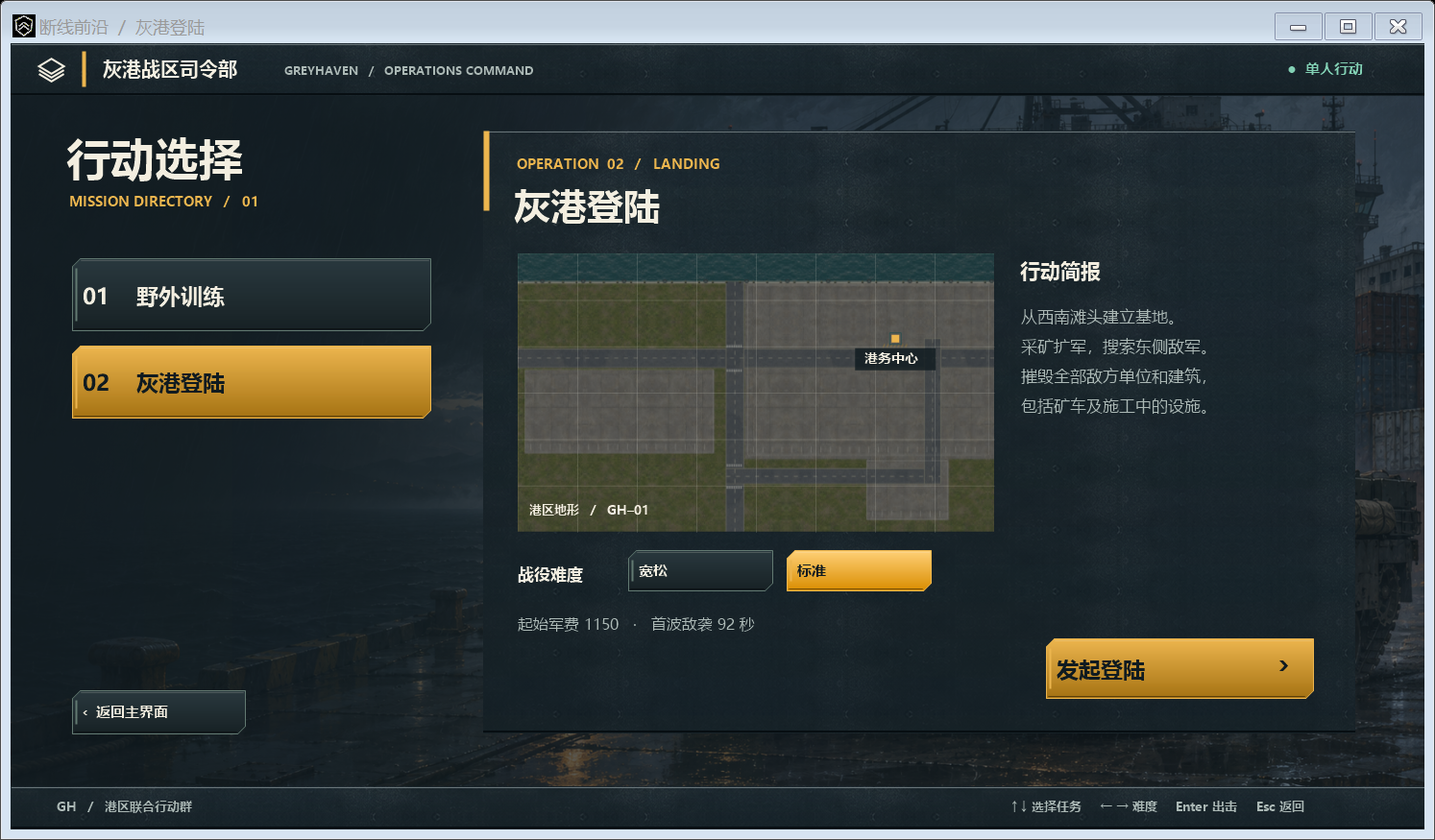
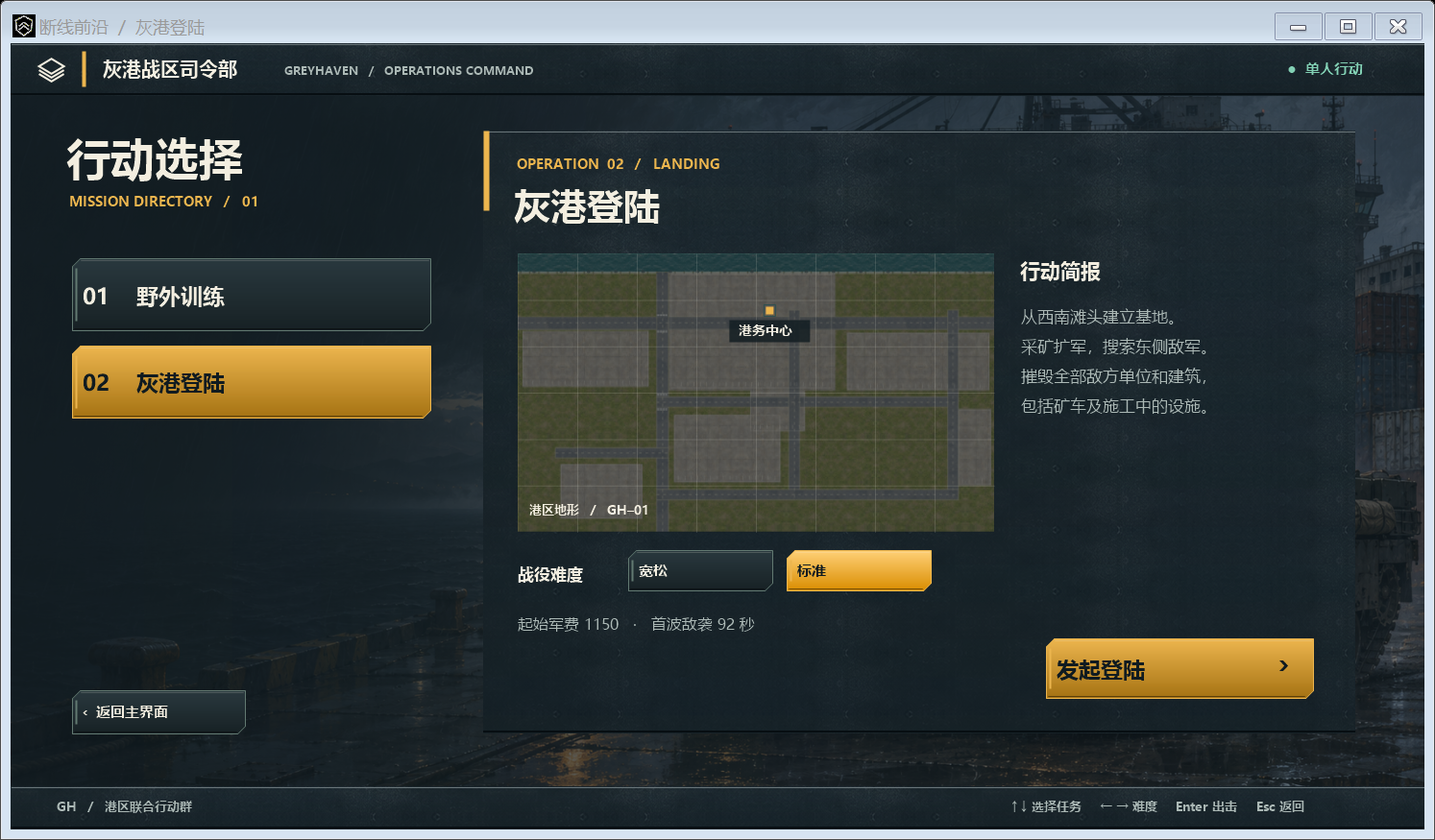
扩大灰港地图并校准战场比例、行速与卸矿通道

Changed region(s): [[0.3387, 0.3086, 0.7082, 0.648]]

diff --git a/src/IsometricField.cs b/src/IsometricField.cs
@@ -8,7 +8,8 @@ using System.Collections.Generic;
 
 namespace Greyhaven {
 partial class CommandWindow {
- float zoom=1.7f;PointF camera=new PointF(255,465),panPoint;bool panning,sweep,syncMarch=true;
+ internal const float DefaultZoom=1.05f;
+ float zoom=DefaultZoom;PointF camera=new PointF(255,465),panPoint;bool panning,sweep,syncMarch=true;
  const float Axis=.87f, Rise=.435f;
  PointF ScreenOf(PointF w){return new PointF(MW*.5f+zoom*Axis*(w.X-camera.X-w.Y+camera.Y),MapTop+MH*.5f+zoom*Rise*(w.X-camera.X+w.Y-camera.Y));}
  PointF WorldOf(PointF s){float a=(s.X-MW*.5f)/(Axis*zoom),b=(s.Y-MapTop-MH*.5f)/(Rise*zoom);return new PointF(camera.X+(b+a)/2,camera.Y+(b-a)/2);}
@@ -159,7 +160,7 @@ partial class CommandWindow {
    using(var pen=new Pen(teal,1.5f)){pen.DashStyle=DashStyle.Dot;g.DrawLine(pen,a,b);g.DrawEllipse(pen,b.X-8,b.Y-5,16,10);}}
   if(place!=null&&mouse.X<MW&&mouse.Y>=MapTop&&mouse.Y<MapTop+MH){
    var w=WorldOf(mouse);var r=Campaign.Footprint(place,w);var p=ScreenOf(Campaign.Middle(r));DrawLive(g,place,0,14,p,place.Size*zoom,1);
-   var state=g.Save();GroundSpace(g);DrawTiles(g,r,world.CanPlace(place,w,null)?teal:red,true);if(Campaign.HasGate(place))DrawTiles(g,Campaign.Gate(r),gold,false);if(place.Key=="barracks")DrawTiles(g,Campaign.Muster(r),teal,true);g.Restore(state);
+   var state=g.Save();GroundSpace(g);DrawTiles(g,r,world.CanPlace(place,w,null)?teal:red,true);if(Campaign.HasGate(place))DrawTiles(g,place.Key=="refinery"?Campaign.UnloadingLane(r):Campaign.Gate(r),gold,place.Key=="refinery");if(place.Key=="barracks")DrawTiles(g,Campaign.Muster(r),teal,true);g.Restore(state);
   }
   if(showGrid){
    foreach(var o in world.Units.Where(u=>u.Alive&&u.T.Building&&world.Visible(u)))CornerPins(g,Campaign.Footprint(o.T,o.P),Team(o.Side));
@@ -213,11 +214,13 @@ partial class CommandWindow {
     try{for(int i=0;i<4;i++){using(var t=materials.Clone(new Rectangle(i%2*w+2,i/2*h+2,w-4,h-4),PixelFormat.Format32bppPArgb)){
      tiles[i]=new TextureBrush(t,WrapMode.TileFlipXY);tiles[i].ScaleTransform(.38f,.38f);}}
      g.FillRectangle(tiles[0],0,0,bmp.Width,bmp.Height);g.FillRectangle(tiles[2],0,0,bmp.Width,101);
-     foreach(var pad in new[]{new Rectangle(25,402,668,288),new Rectangle(800,100,880,610),new Rectangle(1230,710,290,210)})g.FillRectangle(tiles[1],pad);
+     foreach(var pad in new[]{new Rectangle(25,402,668,288),new Rectangle(800,100,880,610),new Rectangle(1230,710,290,210),
+      new Rectangle(1740,410,755,300),new Rectangle(2328,804,176,398),new Rectangle(825,835,565,350),new Rectangle(225,1090,435,282)})g.FillRectangle(tiles[1],pad);
      using(var edge=new Pen(C("#bbb4a0"),8)){g.DrawLine(edge,0,100,bmp.Width,100);}
      foreach(var r in Campaign.Roads){using(var p=new Pen(C("#a09981"),5))g.DrawRectangle(p,r.X,r.Y,r.Width,r.Height);g.FillRectangle(tiles[3],r);}
      foreach(var r in Campaign.Roads){bool horiz=r.Width>r.Height;using(var pen=new Pen(C("#ccc3a6"),2)){pen.DashPattern=new[]{7f,10f};if(horiz)g.DrawLine(pen,r.Left,r.Top+r.Height/2,r.Right,r.Top+r.Height/2);else g.DrawLine(pen,r.Left+r.Width/2,r.Top,r.Left+r.Width/2,r.Bottom);}}
-     foreach(var pad in new[]{new Rectangle(26,402,664,284),new Rectangle(810,110,850,585),new Rectangle(1230,715,285,201)}){
+     foreach(var pad in new[]{new Rectangle(26,402,664,284),new Rectangle(810,110,850,585),new Rectangle(1230,715,285,201),
+      new Rectangle(1745,415,745,290),new Rectangle(2333,809,166,388),new Rectangle(830,840,555,340),new Rectangle(230,1095,425,272)}){
       using(var pen=new Pen(Color.FromArgb(100,pale),2))g.DrawRectangle(pen,pad);
       for(int i=pad.Left+20;i<pad.Right-14;i+=34)Line(g,i,pad.Bottom-29,i,pad.Bottom-8,Color.FromArgb(128,pale),2);
      }

diff --git a/tests/CampaignChecks.cs b/tests/CampaignChecks.cs
@@ -22,13 +22,19 @@ class CampaignChecks {
     int i=0;foreach(var o in w.Live(0).Where(o=>!o.T.Building&&o.T.Key!="miner").ToArray()){
      var enemy=w.Units.Where(e=>e.Side==1&&e.Alive&&e.Carrier==null&&w.Visible(e)).OrderBy(e=>Campaign.Dist(o.P,e.P)).FirstOrDefault();
      if(o.T.Hit>0&&enemy!=null){if(o.Target==null)w.Attack(o,enemy);}
-     else if(o.Path.Count==0)w.Move(o,new PointF(1515+i%4*15,600+i/4%4*16),true);
+     else if(o.Path.Count==0){
+      // Sweep the expanded base approach, then its southern ore route for survivors.
+      var p=w.Time<260?new PointF(Campaign.EnemyHome.X-170+i%4*15,Campaign.EnemyHome.Y+100+i/4%4*16)
+       :new PointF(Campaign.EnemyHome.X-90+i%4*20,Campaign.EnemyHome.Y+350+i/4%4*16);
+      w.Move(o,p,true);
+     }
      i++;
     }
    }
    Wait(w,2);
   }
   Console.WriteLine((armor?"Armour":"Infantry/artillery")+" win="+w.Won+" at "+(int)w.Time+"s, recruited="+order+" remaining="+w.Remaining(1));
+  if(!w.Won)Console.WriteLine(String.Join("\n",w.Live(0).Where(u=>!u.T.Building&&u.T.Key!="miner").Take(18).Select(u=>u.T.Key+" "+u.P+" path="+u.Path.Count+" target="+(u.Target==null?"-":u.Target.T.Key+"@"+u.Target.P)))+"\nEnemy "+String.Join(" ",w.Live(1).GroupBy(u=>u.T.Key).Select(g=>g.Key+"="+g.Count())));
   Check(w.Won,"mission needs to be winnable");
  }
  static void Training(){
@@ -240,7 +246,19 @@ class CampaignChecks {
   Check(!w.Move(tank,new PointF(plant.P.X,lot.Top-6.5f),false),"tank must still respect its wider hull");
   Wait(w,12);Check(Campaign.Dist(miner.P,goal)<.1f,"miner completed tight passage");
  }
- static int Main(){try{Run();return 0;}catch(Exception ex){Console.Error.WriteLine(ex.Message);return 1;}}
+ static void ExpandedMap(){
+  foreach(var key in new[]{"squad","tank","miner","ifv"}){
+   var w=new Campaign(true);var unit=w.Spawn(key,0,1640,920);w.Halt(unit);
+   var goal=new PointF(2420,1320);
+   Check(w.Move(unit,goal,false),"expanded region route "+key);Wait(w,42);
+   Check(Campaign.Dist(unit.P,goal)<.02f&&unit.Path.Count==0,"expanded route arrival "+key);
+   Check(w.Explored(0,goal),"fog extends to new region");
+   Check(!w.Move(unit,new PointF(Campaign.Width+10,1320),false),"east map boundary");
+   Check(!w.Move(unit,new PointF(2420,Campaign.Height+10),false),"south map boundary");
+  }
+  Console.WriteLine("Infantry and three vehicle classes crossed the old map bounds, arrived without overshoot and revealed the new terrain.");
+ }
+ static int Main(){try{ExpandedMap();Run();return 0;}catch(Exception ex){Console.Error.WriteLine(ex.Message);return 1;}}
  static void Run(){NarrowGate();CrowdedOreRun(.05f);CrowdedOreRun(1f/60);MinerMidRouteBlock();EnemySupplyChain();MinerTraffic();ExhaustedFields();ProspectChecks();OreChecks();ContactChecks();StreetChecks();InfantryWaves();HeadingChecks();ReconAndMarch();Navigation();Training();Play(true);Play(false);EliminationChecks();
   var w=new Campaign();var car=w.Spawn("ifv",0,212,431);w.Load(car);Check(w.Units.Any(o=>o.Carrier==car),"embark");w.Load(car);Check(!w.Units.Any(o=>o.Carrier==car),"disembark");
   Console.WriteLine("All checks passed.");}

diff --git a/tests/WindowChecks.cs b/tests/WindowChecks.cs
@@ -31,9 +31,9 @@ class WindowChecks {
    Press(f,140,694);if((bool)Field(f,"missionPicker"))throw new Exception("back to title");
    Press(f,220,571);Press(f,180,255);Press(f,1194,651);if((bool)Field(f,"briefing"))throw new Exception("tutorial launch");
    var screen=new PointF(647,405);var inv=typeof(CommandWindow).GetMethod("WorldOf",flags);
-   var before=(PointF)inv.Invoke(f,new object[]{screen});float ui=(float)Field(f,"scale");
+   var before=(PointF)inv.Invoke(f,new object[]{screen});float ui=(float)Field(f,"scale"),oldZoom=(float)Field(f,"zoom");
    typeof(CommandWindow).GetMethod("OnMouseWheel",flags).Invoke(f,new object[]{new MouseEventArgs(MouseButtons.None,0,(int)(screen.X*ui+(float)Field(f,"ox")),(int)(screen.Y*ui+(float)Field(f,"oy")),120)});
-   var after=(PointF)inv.Invoke(f,new object[]{screen});if(Campaign.Dist(before,after)>2||(float)Field(f,"zoom")<=1.7f)throw new Exception("cursor anchored zoom");Frame(f,null);
+   var after=(PointF)inv.Invoke(f,new object[]{screen});if(Campaign.Dist(before,after)>2||(float)Field(f,"zoom")<=oldZoom)throw new Exception("cursor anchored zoom");Frame(f,null);
    Press(f,1276,298);Press(f,1170,346);if(((Campaign)Field(f,"world")).LastOrder!=null)throw new Exception("locked card accepted");
    Press(f,1150,298);
    var w=(Campaign)Field(f,"world");Press(f,399,738);if(!w.Landing)throw new Exception("deploy button");
@@ -70,7 +70,7 @@ class WindowChecks {
      var picked=(System.Collections.Generic.List<Piece>)Field(f,"selection");picked.Clear();picked.Add(armor);
     }
     var factory=w.Live(0).First(u=>u.T.Key=="factory");w.Train(Campaign.Info("tank"),0,factory);w.Train(Campaign.Info("ifv"),0,factory);for(int t=0;t<28;t++)w.Tick(.1f);
-    Frame(f,Path.Combine(Path.GetDirectoryName(args[0]),"等距战场.png"));while(factory.Queue.Count>0)w.CancelOrder(factory,0);
+    Frame(f,Path.Combine(Path.GetDirectoryName(args[0]),"等距战场.png"));f.CaptureDefaultScale(Path.Combine(Path.GetDirectoryName(args[0]),"战场比例.png"));while(factory.Queue.Count>0)w.CancelOrder(factory,0);
    }
    if(w.LessonKey!="eliminate")throw new Exception("ifv training");Press(f,767,90);
    typeof(CommandWindow).GetMethod("OnKeyDown",flags).Invoke(f,new object[]{new KeyEventArgs(Keys.A)});MapClick(f,1330,292);
@@ -100,6 +100,12 @@ class WindowChecks {
 
 namespace Greyhaven {
 partial class CommandWindow {
+ internal void CaptureDefaultScale(string path){
+  var oldSize=ClientSize;float oldZoom=zoom;ClientSize=new Size(1920,1080);zoom=DefaultZoom;
+  try{using(var frame=new Bitmap(1920,1080))using(var g=Graphics.FromImage(frame)){
+   OnPaint(new PaintEventArgs(g,ClientRectangle));frame.Save(path,System.Drawing.Imaging.ImageFormat.Png);
+  }}finally{ClientSize=oldSize;zoom=oldZoom;}
+ }
  internal void CheckInfantry(){
   var feet=new PointF(96,120);const float size=100;var box=SoldierBox(feet,size);
   foreach(var key in new[]{"squad","at","engineer"})foreach(var side in new[]{0,1}){

diff --git a/src/Campaign.cs b/src/Campaign.cs
@@ -39,15 +39,15 @@ public partial class Campaign {
   new TypeInfo("factory","车辆工厂","hq",380,980,0,0,155,0,10,0),
   new TypeInfo("radar","雷达站","hq",240,510,0,0,113,0,8,0),
   new TypeInfo("post","防御阵地","hq",235,610,17,118,102,0,7,1.2f),
-  new TypeInfo("squad","步枪兵","barracks",85,110,10,73,58,32,5,1.25f),
-  new TypeInfo("at","反装甲兵","barracks",135,85,30,115,61,29,8,2.5f),
-  new TypeInfo("engineer","工兵","barracks",95,90,0,0,58,34,6,1),
-  new TypeInfo("ifv","步兵战车","factory",185,210,16,96,66,45,8,1.3f),
-  new TypeInfo("tank","主战坦克","factory",290,355,38,115,75,36,12,2),
-  new TypeInfo("arty","自行火炮","factory",315,150,54,222,70,31,13,3.5f),
-  new TypeInfo("mcv","工程车","hq",340,290,0,0,73,31,13,0),
+  new TypeInfo("squad","步枪兵","barracks",85,110,10,73,48,48,5,1.25f),
+  new TypeInfo("at","反装甲兵","barracks",135,85,30,115,50,43.2f,8,2.5f),
+  new TypeInfo("engineer","工兵","barracks",95,90,0,0,48,48,6,1),
+  new TypeInfo("ifv","步兵战车","factory",185,210,16,96,50,96,8,1.3f),
+  new TypeInfo("tank","主战坦克","factory",290,355,38,115,57,72,12,2),
+  new TypeInfo("arty","自行火炮","factory",315,150,54,222,53,57.6f,13,3.5f),
+  new TypeInfo("mcv","工程车","hq",340,290,0,0,55,60,13,0),
   new TypeInfo("refinery","矿石精炼厂","hq",390,720,0,0,136,0,9,0),
-  new TypeInfo("miner","采矿车","factory",195,310,0,0,44,38,9,0)};
+  new TypeInfo("miner","采矿车","factory",195,310,0,0,44,72,9,0)};
  public static TypeInfo Info(string k){return Array.Find(Types,t=>t.Key==k);}
  public readonly List<Piece> Units=new List<Piece>();public readonly List<Shot> Shots=new List<Shot>();
  public readonly Site[] Sites={new Site("港务中心",1330,292,1265,227)};
@@ -61,7 +61,7 @@ public partial class Campaign {
   Spawn("mcv",0,152,514);Spawn("squad",0,214,418);Spawn("squad",0,258,410);
 
   if(tutorial){Spawn("squad",1,1390,287);Reveal();return;}
-  Spawn("mcv",1,1548,500);Reveal();
+  Spawn("mcv",1,EnemyHome.X,EnemyHome.Y);Reveal();
  }
  public static float Dist(PointF a,PointF b){return (float)Math.Sqrt((a.X-b.X)*(a.X-b.X)+(a.Y-b.Y)*(a.Y-b.Y));}
  public Piece Spawn(string k,int side,float x,float y){

diff --git a/src/OreEconomy.cs b/src/OreEconomy.cs
@@ -5,8 +5,10 @@ using System.Collections.Generic;
 
 namespace Greyhaven {
 public class OrePatch {
- public PointF P;public float Stock;public readonly float Initial;
+ public PointF P;double stock;public readonly float Initial;
+ public float Stock {get{return (float)stock;}set{stock=value;}}
  public OrePatch(float x,float y,float stock){P=new PointF(x,y);Stock=Initial=stock;}
+ public float Extract(float request){float take=(float)Math.Min(stock,request);stock-=take;return take;}
 }
 public partial class Campaign {
  public const int LoadValue=180;
@@ -21,7 +23,9 @@ public partial class Campaign {
  }
  static List<OrePatch> CreateFields(){
   var ore=new List<OrePatch>();
-  foreach(var center in new[]{new PointF(53,626),new PointF(1590,867),new PointF(449,221),new PointF(896,629),new PointF(1020,140)}){
+  foreach(var center in new[]{new PointF(53,626),new PointF(EnemyHome.X+42,EnemyHome.Y+367),
+   new PointF(449,221),new PointF(896,629),new PointF(1020,140),
+   new PointF(550,1170),new PointF(1280,1310),new PointF(2060,470)}){
    foreach(var offset in new[]{new PointF(0,0),new PointF(29,14),new PointF(-24,19),new PointF(6,38)})
     ore.Add(new OrePatch(center.X+offset.X,center.Y+offset.Y,4200));
   }return ore;
@@ -108,8 +112,8 @@ public partial class Campaign {
   }
   var patch=truck.Patch;
   if(patch!=null&&patch.Stock>.01f&&Dist(truck.P,truck.WorkPoint)<5&&Dist(truck.WorkPoint,patch.P)<=30){
-   truck.Path.Clear();float take=Math.Min(Math.Min(patch.Stock,LoadValue-truck.Cargo),dt*36);
-   truck.Cargo+=take;patch.Stock-=take;if(truck.Side==0&&take>0)FirstOreCollected=true;
+   truck.Path.Clear();float take=patch.Extract(Math.Min(LoadValue-truck.Cargo,dt*36));
+   truck.Cargo+=take;if(truck.Side==0&&take>0)FirstOreCollected=true;
    if(patch.Stock<=.01f){truck.Patch=null;truck.Returning=truck.Cargo>.01f;}
    return;
   }

diff --git a/src/EnemyEconomy.cs b/src/EnemyEconomy.cs
@@ -4,6 +4,7 @@ using System.Linq;
 
 namespace Greyhaven {
 public partial class Campaign {
+ static PointF EnemySite(float x,float y){return new PointF(EnemyHome.X+x,EnemyHome.Y+y);}
  bool EnemyFacility(string key,PointF location){
   var type=Info(key);var existing=Units.FirstOrDefault(u=>u.Side==1&&u.Alive&&u.T==type);
   if(existing!=null)return existing.Deployed;
@@ -19,17 +20,17 @@ public partial class Campaign {
   if(!Live(1).Any(u=>u.T.Key=="hq")){
    var mcv=Live(1).FirstOrDefault(u=>u.T.Key=="mcv");if(mcv!=null)DeployVehicle(mcv);return;
   }
-  if(!EnemyFacility("power",new PointF(1632,432))||!EnemyFacility("refinery",new PointF(1560,692)))return;
+  if(!EnemyFacility("power",EnemySite(84,-68))||!EnemyFacility("refinery",EnemySite(12,192)))return;
   if(!Live(1).Any(u=>u.T.Key=="miner")){
    if(Live(1).Any(u=>u.T.Key=="refinery"&&!u.StarterDelivered))return;
    if(!Live(1).Any(u=>u.Queue.Any(t=>t.Key=="miner"))){
-    if(EnemyFacility("factory",new PointF(1548,600)))Train(Info("miner"),1,null);
+    if(EnemyFacility("factory",EnemySite(0,100)))Train(Info("miner"),1,null);
    }return;
   }
-  if(OreReceipts[1]==0||!EnemyFacility("barracks",new PointF(1620,502)))return;
+  if(OreReceipts[1]==0||!EnemyFacility("barracks",EnemySite(72,2)))return;
   // Field the first squad, then reserve funds for the factory before buying more.
   if(aiTurn==0){if(Train(Info("squad"),1,null))aiTurn++;return;}
-  if(!EnemyFacility("factory",new PointF(1548,600)))return;
+  if(!EnemyFacility("factory",EnemySite(0,100)))return;
   if(Time<aiClock)return;
   string[] order={"ifv","at","tank","squad","engineer","arty"};
   var next=Info(order[(aiTurn-1)%order.Length]);

diff --git a/src/CommandWindow.cs b/src/CommandWindow.cs
@@ -44,7 +44,7 @@ partial class CommandWindow:Form {
   int dark=1,caption=ColorTranslator.ToWin32(ink),text=ColorTranslator.ToWin32(pale);
   DwmSetWindowAttribute(Handle,20,ref dark,4);DwmSetWindowAttribute(Handle,35,ref caption,4);DwmSetWindowAttribute(Handle,36,ref text,4);
  }
- void Restart(){ResetEdgeScroll();rulesOpen=false;missionPicker=false;hudDirty=true;drag=false;Capture=false;Array.Clear(bookmarks,0,bookmarks.Length);selectType=null;tHeld=false;markedPoint=null;markedEnemy=null;camera=new PointF(255,465);zoom=1.7f;sweep=false;panning=false;syncMarch=true;queueOpen=false;queueIndex=0;world=new Campaign();selection.Clear();selection.Add(world.Units[0]);briefing=true;paused=false;help=false;army=false;place=null;attack=false;speed=1;}
+ void Restart(){ResetEdgeScroll();rulesOpen=false;missionPicker=false;hudDirty=true;drag=false;Capture=false;Array.Clear(bookmarks,0,bookmarks.Length);selectType=null;tHeld=false;markedPoint=null;markedEnemy=null;camera=new PointF(255,465);zoom=DefaultZoom;sweep=false;panning=false;syncMarch=true;queueOpen=false;queueIndex=0;world=new Campaign();selection.Clear();selection.Add(world.Units[0]);briefing=true;paused=false;help=false;army=false;place=null;attack=false;speed=1;}
  Font F(float size,bool bold){string key=size.ToString()+bold;Font f;if(!fonts.TryGetValue(key,out f))fonts[key]=f=new Font("Microsoft YaHei UI",size,bold?FontStyle.Bold:FontStyle.Regular,GraphicsUnit.Pixel);return f;}
  void Txt(Graphics g,string s,float x,float y,float size,Color c,bool bold=false){var font=F(size,bold);
   if(!drawingClient){using(var b=new SolidBrush(c))g.DrawString(s,font,b,x,y,StringFormat.GenericTypographic);return;}

diff --git a/src/Navigation.cs b/src/Navigation.cs
@@ -5,7 +5,8 @@ using System.Linq;
 
 namespace Greyhaven {
 public partial class Campaign {
- public const int Tile=24, Width=1680, Height=960;
+ public const int Tile=24, Width=2520, Height=1440;
+ public static readonly PointF EnemyHome=new PointF(Width-132,Height-460);
  public static RectangleF Footprint(TypeInfo t,PointF pointer){
   int w=(t.Key=="factory"?4:t.Key=="hq"||t.Key=="barracks"||t.Key=="refinery"?3:2)*Tile;
   int h=(t.Key=="hq"||t.Key=="factory"?3:2)*Tile;
@@ -13,7 +14,11 @@ public partial class Campaign {
  }
  public static PointF Middle(RectangleF r){return new PointF(r.Left+r.Width/2,r.Top+r.Height/2);}
  static RectangleF Inflated(RectangleF r,float pad){r.Inflate(pad,pad);return r;}
- public static readonly RectangleF[] Roads={new RectangleF(0,330,Width,63),new RectangleF(735,98,61,Height-98),new RectangleF(735,743,755,50),new RectangleF(1435,295,55,498)};
+ public static readonly RectangleF[] Roads={
+  new RectangleF(0,330,Width,63),new RectangleF(735,98,61,Height-98),
+  new RectangleF(735,743,1595,50),new RectangleF(1435,295,55,978),
+  new RectangleF(2275,295,55,978),new RectangleF(735,1223,1595,50),
+  new RectangleF(200,1007,596,50)};
  public static bool HasGate(TypeInfo t){return t.Key=="barracks"||t.Key=="factory"||t.Key=="hq"||t.Key=="refinery";}
  public static RectangleF Gate(RectangleF body){return new RectangleF(body.Left,body.Bottom,body.Width,Tile);}
  public static readonly RectangleF[] YardWalls={new RectangleF(842,214,74,8),new RectangleF(962,214,77,8),new RectangleF(1094,214,70,8)};

diff --git a/src/FieldConsole.cs b/src/FieldConsole.cs
@@ -21,6 +21,7 @@ partial class CommandWindow {
   foreach(var r in Campaign.YardWalls){Rect(g,r.X+3,r.Y+3,r.Width,r.Height,Color.FromArgb(80,ink));Rect(g,r.X,r.Y,r.Width,r.Height,C("#928c78"));Line(g,r.Left,r.Top,r.Right,r.Top,pale,2);for(float x=r.Left+4;x<r.Right-4;x+=15)Line(g,x,r.Bottom,x+5,r.Top,gold,2);}
   foreach(var o in world.Live(0).Where(u=>Campaign.HasGate(u.T))){
    var lot=Campaign.Footprint(o.T,o.P);var gate=Campaign.Gate(lot);
+   if(o.T.Key=="refinery"&&(showGrid||place!=null||selection.Contains(o)))DrawTiles(g,Campaign.UnloadingLane(lot),gold,true);
    if(o.T.Key=="barracks"){DrawTiles(g,Campaign.Muster(lot),teal,true);foreach(var seat in o.Berths)Rect(g,seat.X-3,seat.Y-3,6,6,gold);}
    for(int i=-1;i<=1;i++){float x=o.P.X+i*12,y=gate.Top+8;Line(g,x-4,y,x,y+4,gold);Line(g,x,y+4,x+4,y,gold);}
   }

diff --git a/src/DeploymentOrders.cs b/src/DeploymentOrders.cs
@@ -24,7 +24,8 @@ public partial class Campaign {
   }return o.P;
  }
  public static RectangleF Muster(RectangleF lot){var gate=Gate(lot);return new RectangleF(gate.X,gate.Bottom,gate.Width,2*Tile);}
- static RectangleF ReservedLot(TypeInfo t,RectangleF r){if(HasGate(t))r.Height+=Tile;if(t.Key=="barracks")r.Height+=2*Tile;return r;}
+ public static RectangleF UnloadingLane(RectangleF lot){return new RectangleF(lot.Left,lot.Bottom,lot.Width,2*Tile);}
+ static RectangleF ReservedLot(TypeInfo t,RectangleF r){if(HasGate(t))r.Height+=Tile;if(t.Key=="barracks")r.Height+=2*Tile;if(t.Key=="refinery")r.Height+=Tile;return r;}
  bool ParkingAllowed(int side,PointF p){
   return !Units.Any(o=>o.Alive&&o.Side==side&&o.T.Key=="barracks"&&Muster(Footprint(o.T,o.P)).Contains(p));
  }

diff --git a/src/AssemblyInfo.cs b/src/AssemblyInfo.cs
@@ -2,5 +2,5 @@ using System.Reflection;
 [assembly: AssemblyTitle("断线前沿")]
 [assembly: AssemblyProduct("断线前沿 · 灰港登陆")]
 [assembly: AssemblyDescription("现代战争单人即时战略游戏")]
-[assembly: AssemblyVersion("0.14.0.0")]
-[assembly: AssemblyFileVersion("0.14.0.0")]
+[assembly: AssemblyVersion("0.15.0.0")]
+[assembly: AssemblyFileVersion("0.15.0.0")]

diff --git a/docs/design/战场比例与视频参考.md b/docs/design/战场比例与视频参考.md
@@ -1,0 +1,69 @@
+# 战场比例与视频参考 · v0.15.0
+
+日期：2026-11-06。目标是同屏容纳基地、军队与可供调动的地面，而不是把单个单位放大成展示模型。原有动画预览继续存放于 `art/review/animation-v01`，本版不应用这些素材。
+
+## 实际观察的资料
+
+- 用户提供的 2048×1054 红警截图作为画面比例的主要参考。视觉估计：步兵高约 25～35 像素，坦克宽约 50～70 像素，大型工厂宽约 200～220 像素，地格接近 2:1 菱形。这是截图估计，不是引擎原始参数。
+- [红警冠军级别对决：08 对 829](https://www.bilibili.com/video/BV1D341167Fc/)：逐帧查看 02:00～02:04 的矿车转向和矿区作业、04:40～04:44 的装甲集结与基地道路、12:20～12:24 的步坦混合战斗及镜头平移。
+- [全能王比赛 HBK08 对战藏龙](https://www.bilibili.com/video/BV1Zq4y1A7yw/)：逐帧查看 01:30～01:34 的步兵侦察与雪地道路、03:00～03:04 的基地、矿车和镜头平移。
+
+视频通过公开播放流截取连续画面进行内部观察，每秒提取两帧；没有完整看完两场比赛。低清视频、游戏速度和镜头移动会影响速度估计，因此没有把画面中的像素位移声称为红警的精确移速。视频内容未加入仓库或发布程序。
+
+观察结论：单兵应显著小于装甲，装甲又显著小于生产建筑；基地门口必须有够车辆转弯、会车的地面；离开基地后应有较长的道路与调动空间。视频中的小单位仍可通过轮廓、阵营色和编队分辨。矿车快于徒步部队，轻装甲更适合快速调动。
+
+另查阅了 [Red Alert II 原游戏 Rules.ini 的公开镜像](https://raw.githubusercontent.com/FreemanZY/Command_And_Conquer_INI/master/Command%20%26%20Conquer%20Red%20Alert(tm)%20II/Rules.ini)：犀牛 Speed=6、灰熊 Speed=7、多功能步兵车 Speed=10、天启 Speed=4。这里借鉴不同车型的速度层次；该字段不是本游戏的“格/秒”，不能直接等同。
+
+## 本版参数
+
+| 项目 | v0.14 | v0.15 |
+|---|---:|---:|
+| 地图格数 | 70×40 | 105×60 |
+| 世界坐标范围 | 1680×960 | 2520×1440 |
+| 默认镜头倍率 | 1.70 | 1.05 |
+| 单格世界边长 | 24 | 24 |
+| 同视口可见地面面积 | 1 | 约 2.62 |
+| 矿区 / 矿点 | 5 / 20 | 8 / 32 |
+
+地图面积为原来的 2.25 倍。新增东部和南部道路、铺装及矿点，正式敌方基地迁入东南区域，野外训练仍在原区域完成。原有生产建筑占地保持：指挥部 3×3、工厂 4×3、兵营和精炼厂 3×2，其余基地设施 2×2。
+
+1920×1080 窗口默认倍率下，一格投影约为 57×29 像素；实际屏幕尺寸随窗口缩放。主战坦克可见车身约 50～70 像素宽、士兵约 25～30 像素高，方向和透明边缘会影响包围尺寸。工厂底面横跨约 200 像素。详见 [默认比例实机](../战场比例.png)。画面保留已确认的控制台，UI 字体大小不跟随战场缩放。
+
+| 单位 | 旧行速（世界单位/秒） | 新行速 | 新行速（格/秒） | 本体显示尺寸变化，未计镜头 |
+|---|---:|---:|---:|---:|
+| 步枪兵 | 32 | 48 | 2.0 | 58 → 48 |
+| 反装甲兵 | 29 | 43.2 | 1.8 | 61 → 50 |
+| 工兵 | 34 | 48 | 2.0 | 58 → 48 |
+| 步兵战车 | 45 | 96 | 4.0 | 66 → 50 |
+| 主战坦克 | 36 | 72 | 3.0 | 75 → 57 |
+| 自行火炮 | 31 | 57.6 | 2.4 | 70 → 53 |
+| 工程车 | 31 | 60 | 2.5 | 73 → 55 |
+| 采矿车 | 38 | 72 | 3.0 | 44 → 44 |
+
+这是本项目基于视频和游玩节奏调定的数值。按游戏速度 ×1、空旷直线且不转弯计算；混编同步行军仍受最慢单位限制。建筑体积与占地一并随镜头缩放，人物和装甲另行缩小，避免只拉远镜头而保留旧的相对比例。
+
+## 通行及经济验证
+
+提速测试暴露出敌方工厂可能贴近精炼厂卸货位置，剩余空隙小于矿车半径。精炼厂现预留两排通行格；相邻建筑不能侵入，放置预览、选中精炼厂或开启格线时显示金色范围。建筑本体仍为 3×2，预留通道可以行驶。
+
+矿藏剩余量使用双精度累积，再提供显示数值。高频模拟下的反复小额扣减不再造成明显的矿量漂移；收入仍以实际卸货为准。
+
+- 四辆矿车在同一个拥堵矿点运行 180 秒：每秒 20 次更新分别交货 7、10、10、8 次；每秒 60 次分别交货 8、10、9、9 次。每车反复往返，矿量守恒检查通过。
+- 两辆矿车在厂门和采集中心受阻场景，170 秒内各交货 12 次。
+- 敌方停矿后停止增加收入与训练，恢复后继续建造和生产；没有免费刷兵。
+- 步兵、坦克、矿车和步战车从旧地图边界以内抵达新增东南区域，路径、停靠、探索和新地图边界检查通过。
+- 30、60、120 次/秒更新下的街道转弯与八方向车身朝向检查通过；完整十步教程与原生窗口交互通过。
+- 自动操作测试的装甲打法在 266 秒完成歼灭，步兵火炮打法在 252 秒完成。此为测试脚本成绩，不是新手预计通关时间。
+
+## 本机绘制测量
+
+运行 `scripts/build.ps1 -Test -MeasureFrames`。以下为本机基地场景，不代表大军团战斗或所有电脑性能。
+
+| 绘制场景 | 中位耗时 | 95% 耗时 |
+|---|---:|---:|
+| 1260×706 固定镜头 | 2.80 ms | 6.06 ms |
+| 1260×706 平移镜头 | 2.62 ms | 6.15 ms |
+| 1920×1080 固定镜头 | 6.06 ms | 13.04 ms |
+| 1920×1080 平移镜头 | 6.74 ms | 13.47 ms |
+
+实际 1260×706 窗口三段采样分别为 62.7、62.1、47.7 次绘制/秒；第三段有明显停顿，95% 帧间隔 89.3 ms，因此不宣称稳定 60 帧。静态地面仍使用缓存，地图扩大没有要求每帧重新绘制整张地图。
